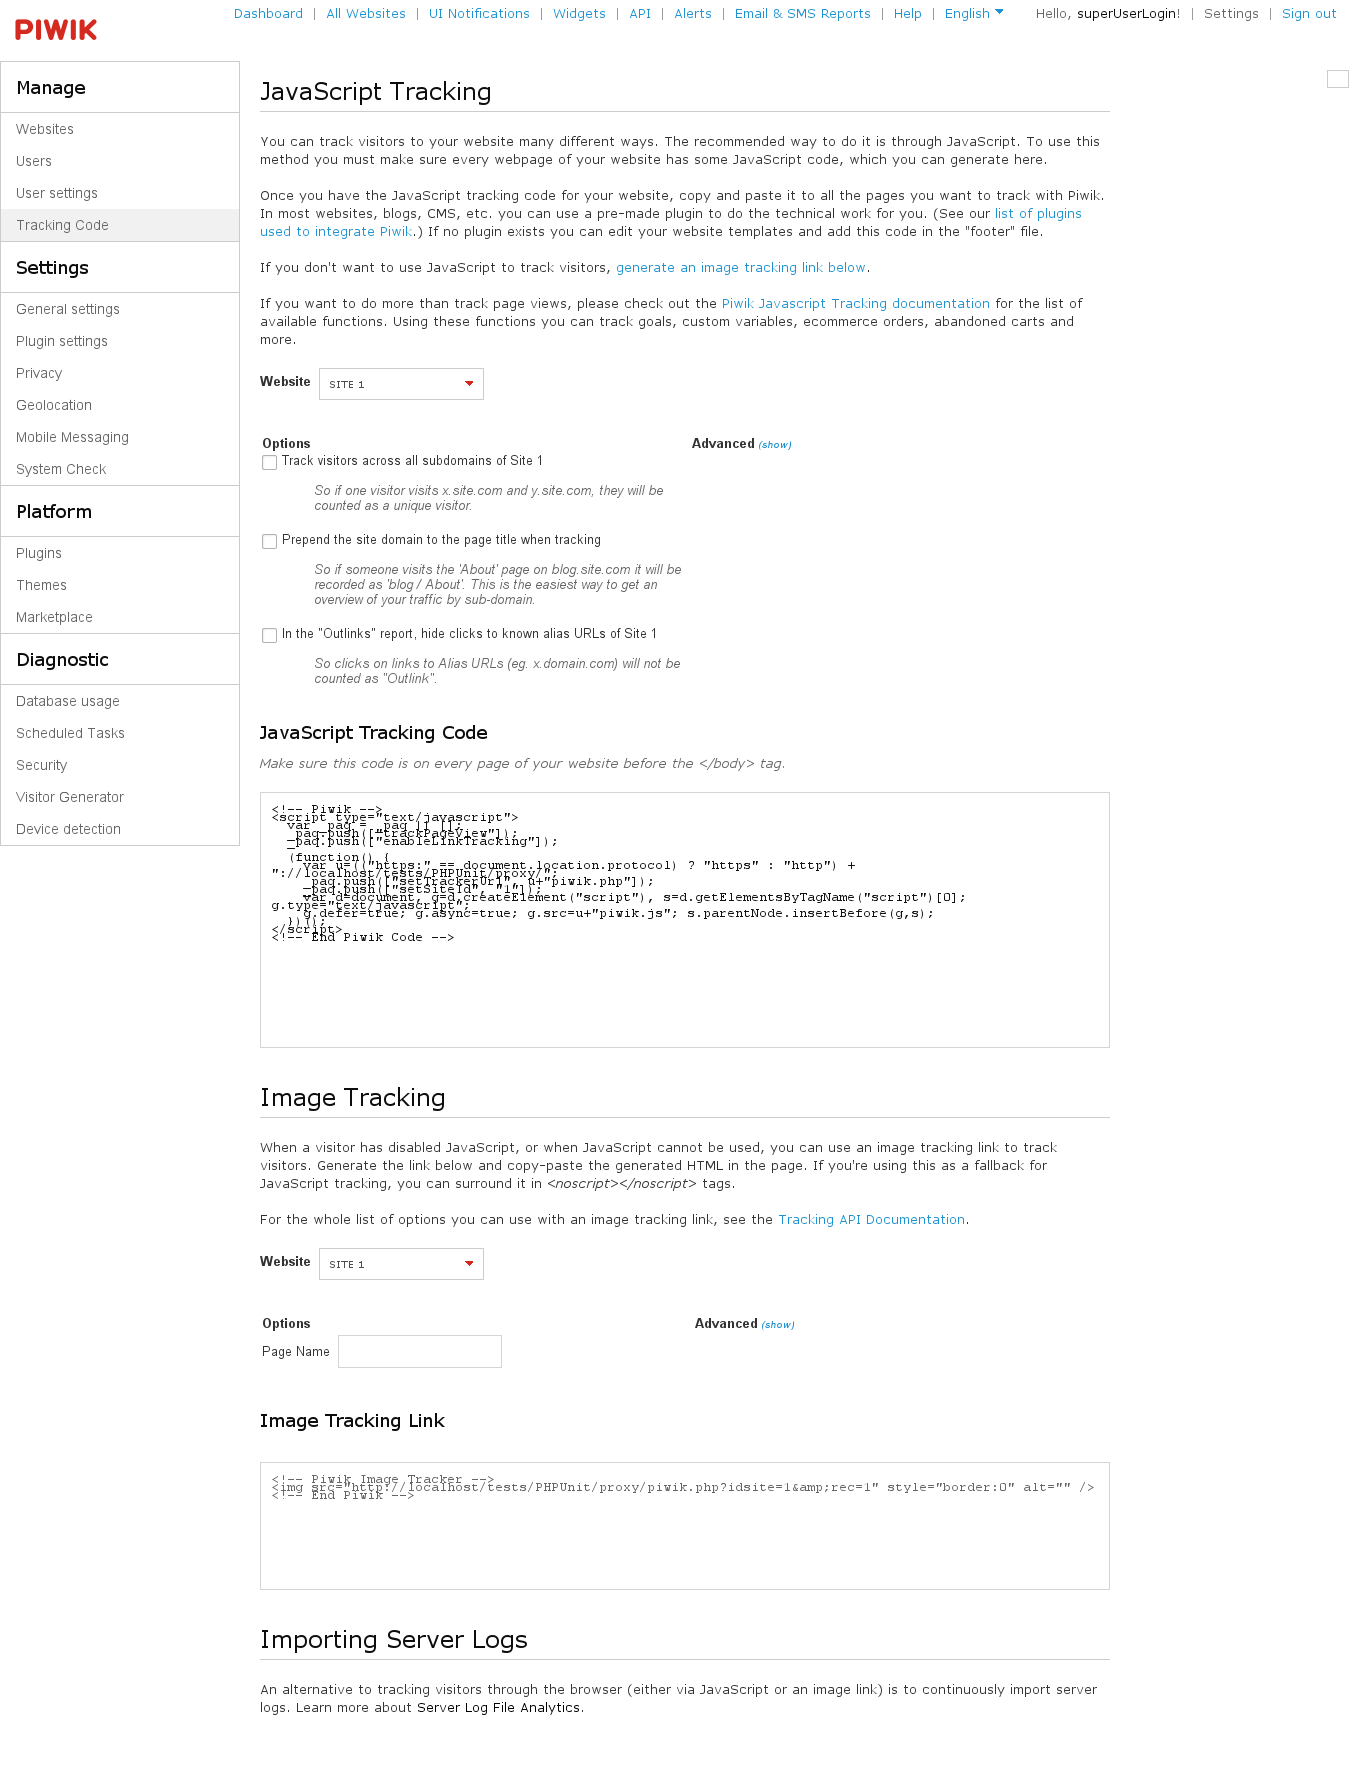
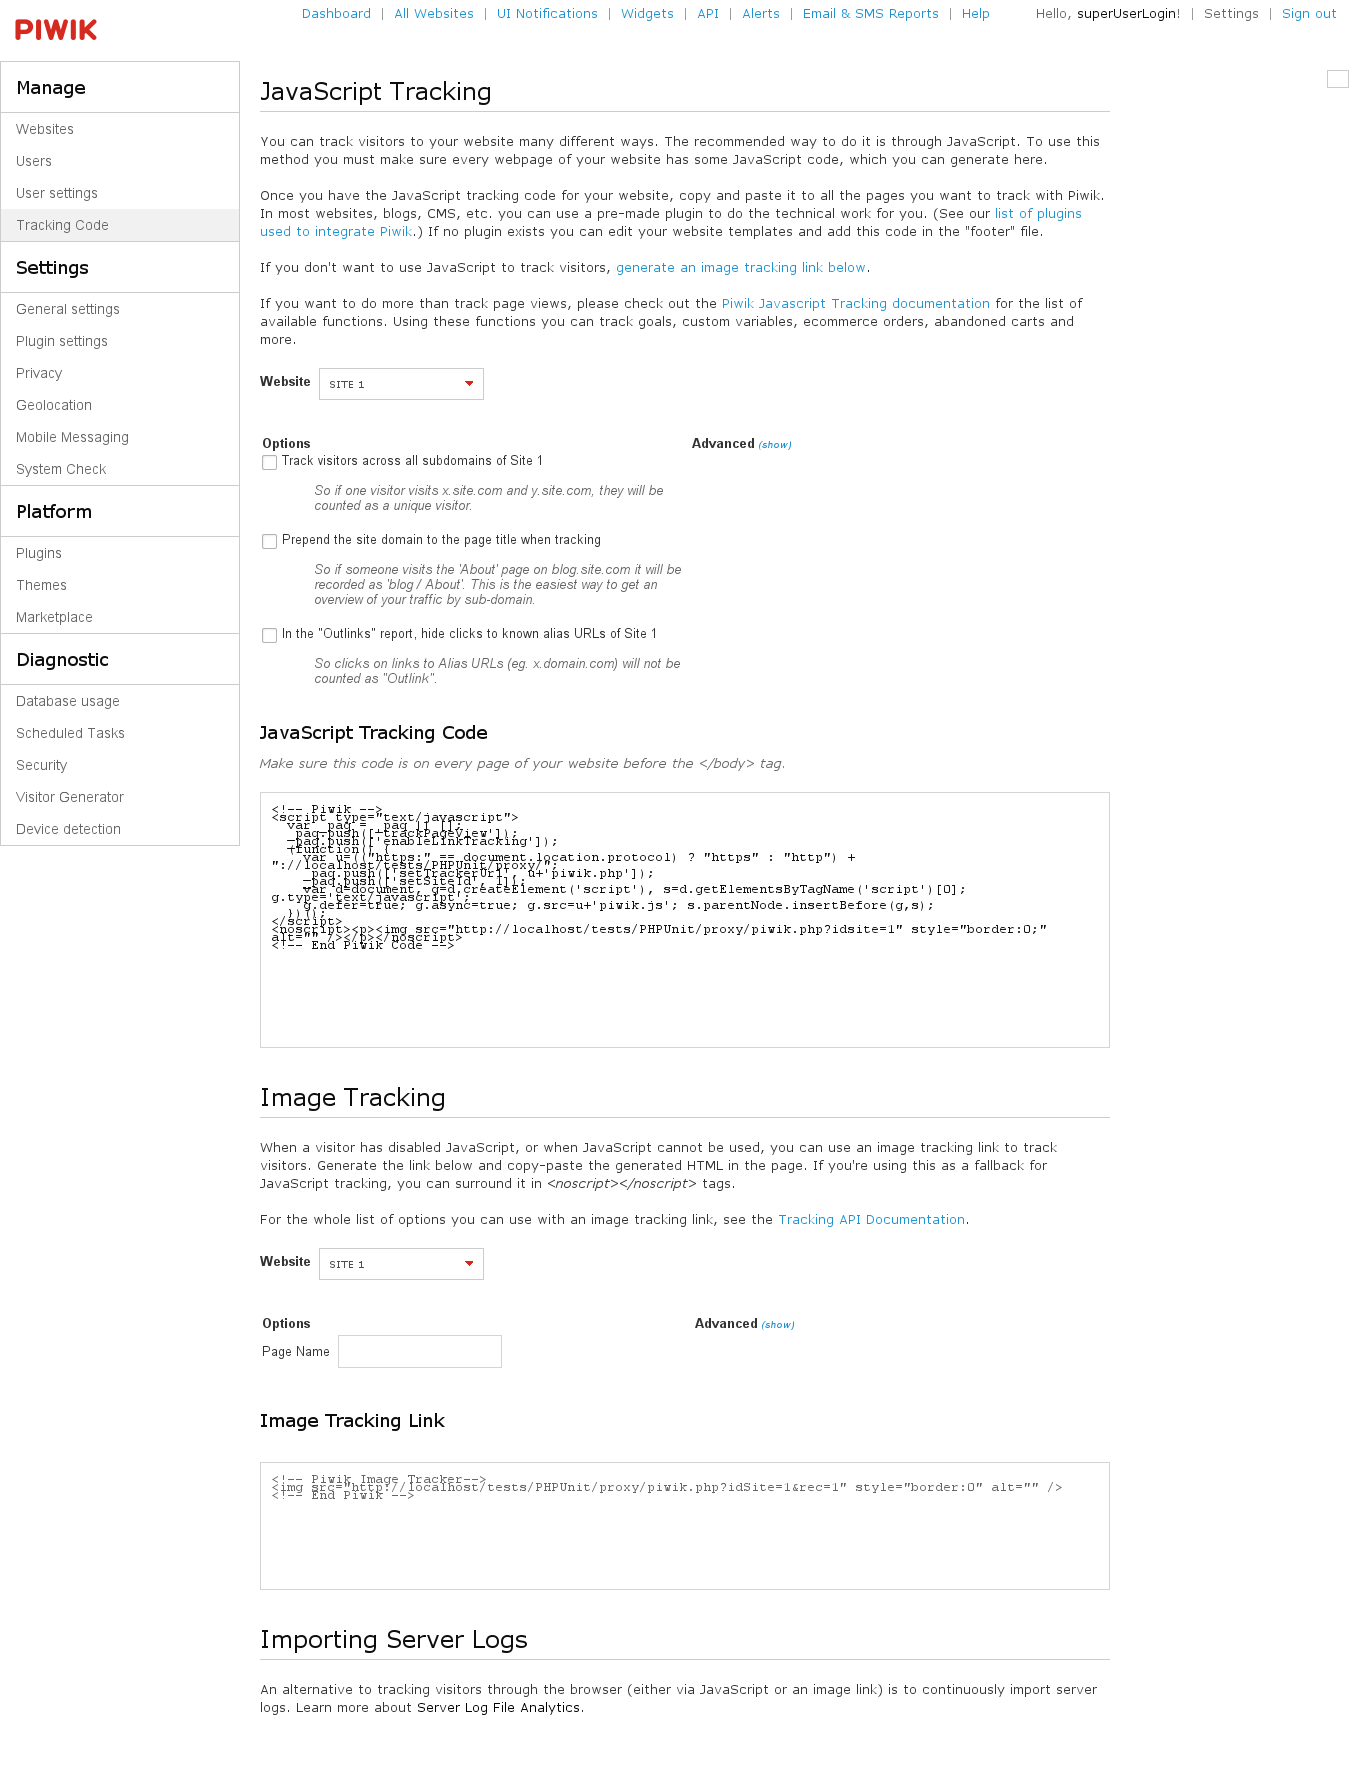
Replace numbers with stars in the "Last seen" column. + the JS tracking code now looks good. Also security info the PHP version has been removed.

Changed region(s): [[0.1867, 0.4645, 0.7156, 0.5265]]

diff --git a/specs/UIIntegration_spec.js b/specs/UIIntegration_spec.js
@@ -297,6 +297,9 @@ describe("UIIntegrationTest", function () { // TODO: Rename to Piwik?
                 $('td#token_auth').each(function () {
                     $(this).text('');
                 });
+                $('td#last_seen').each(function () {
+                    $(this).text( $(this).text().replace(/[0-9]/g, "*") )
+                });
             });
         }, done);
     });
